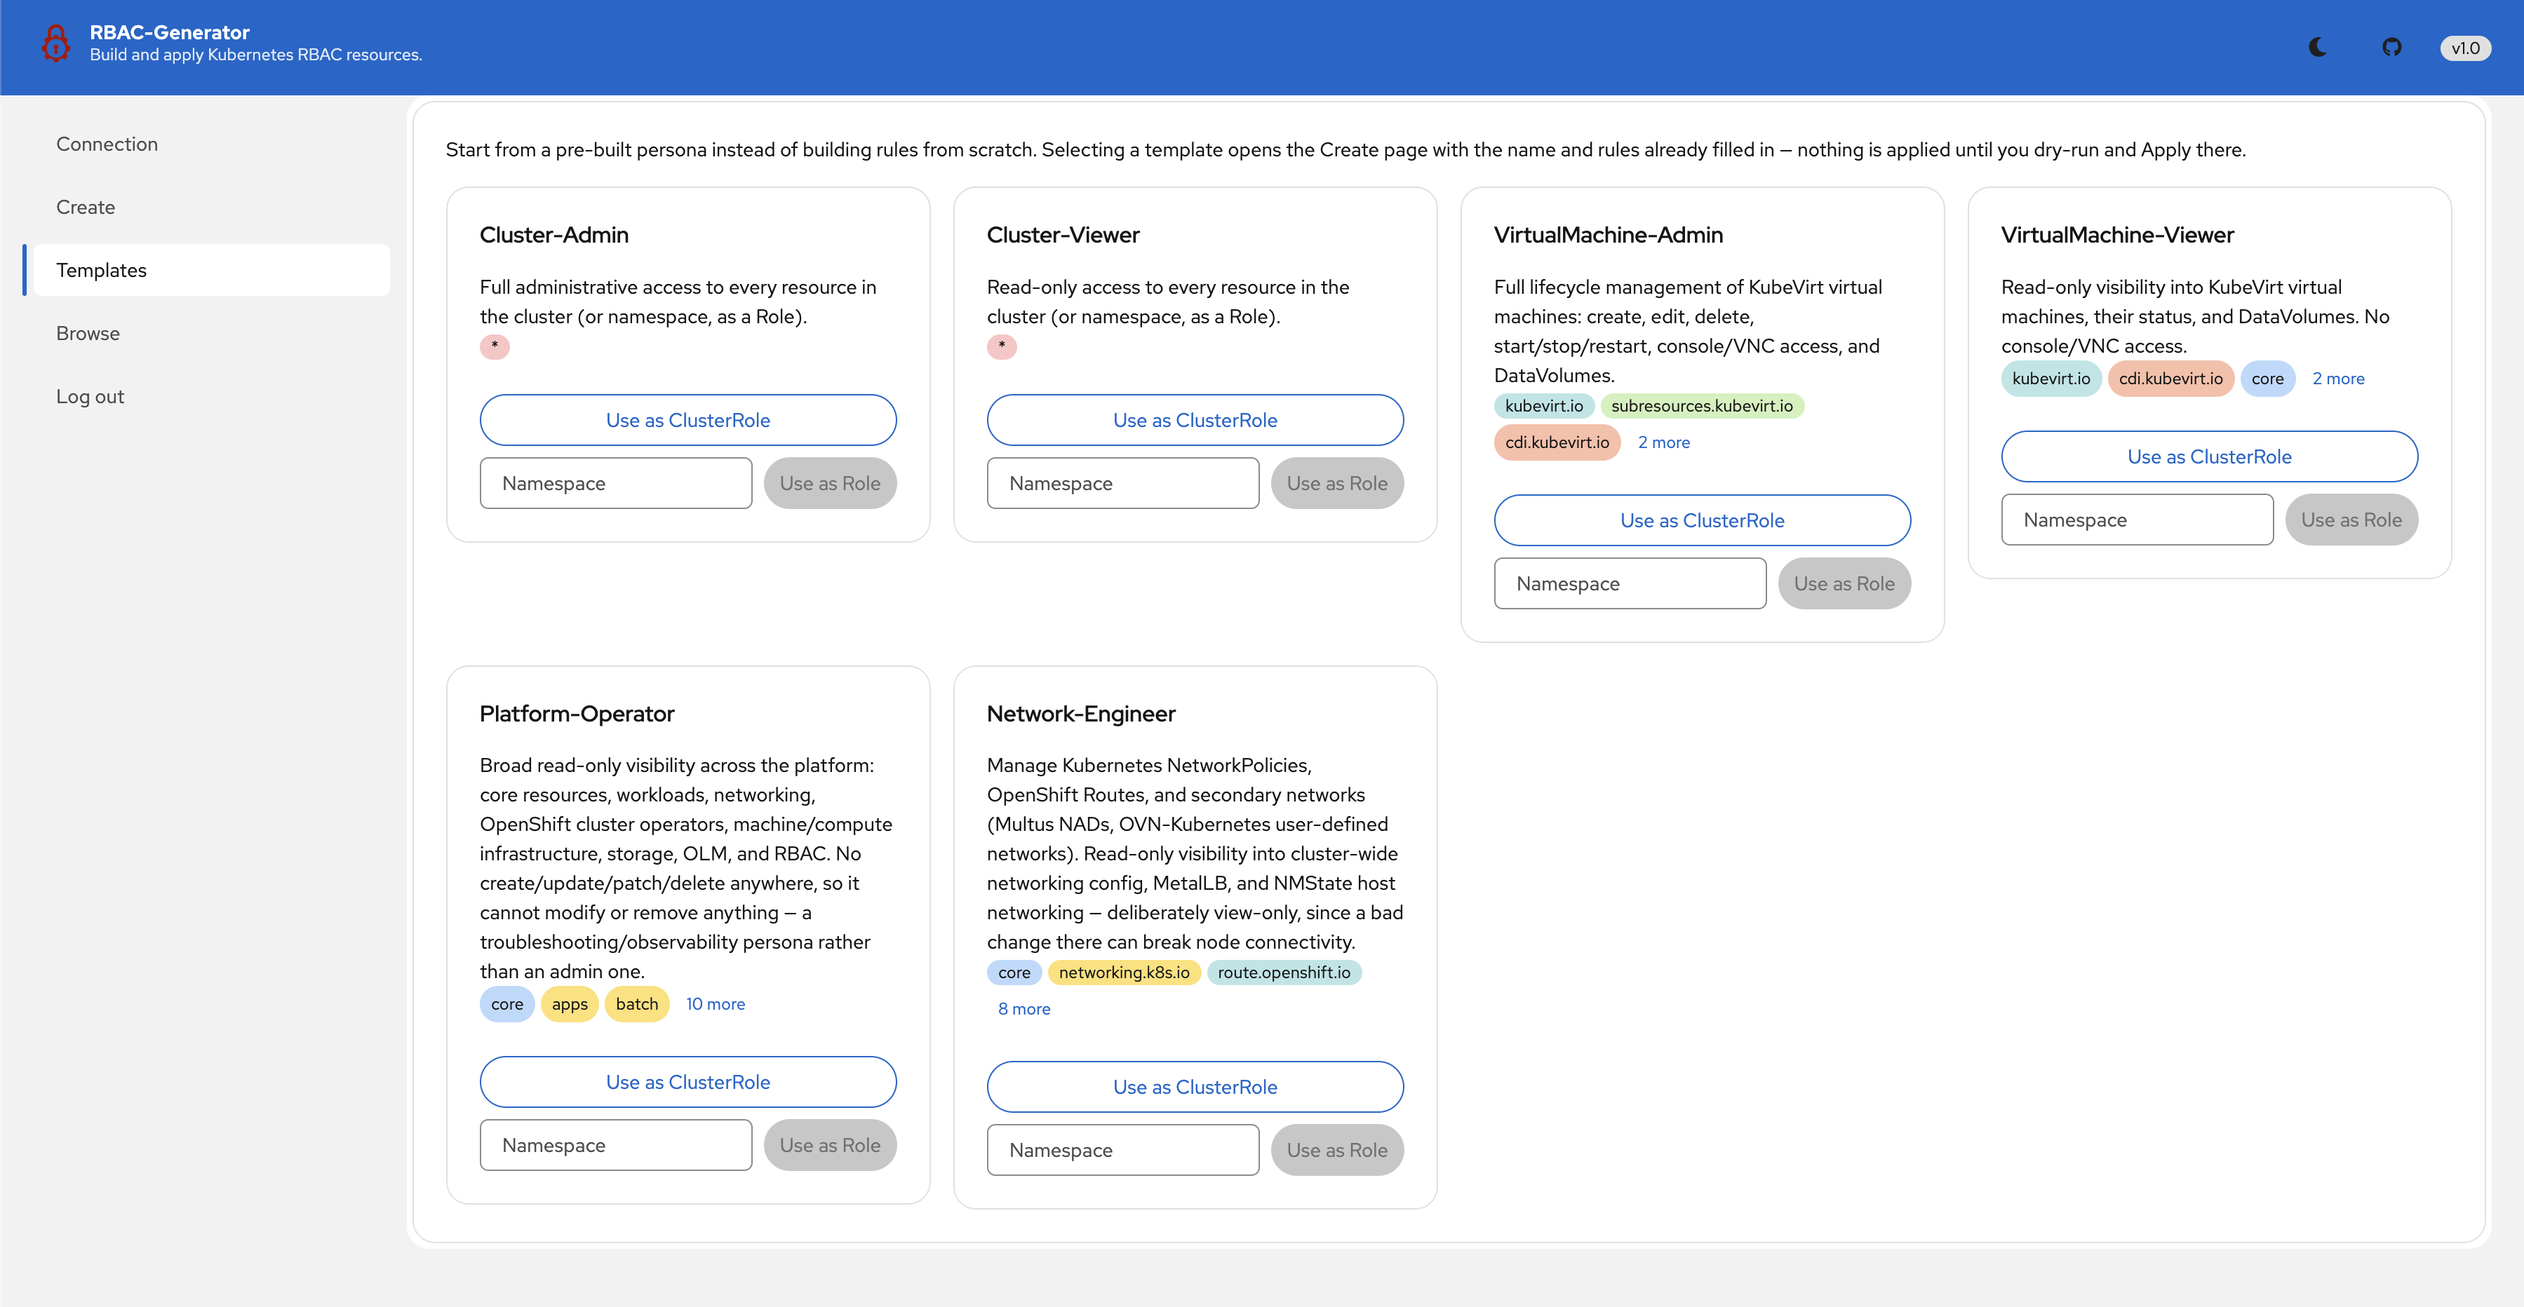
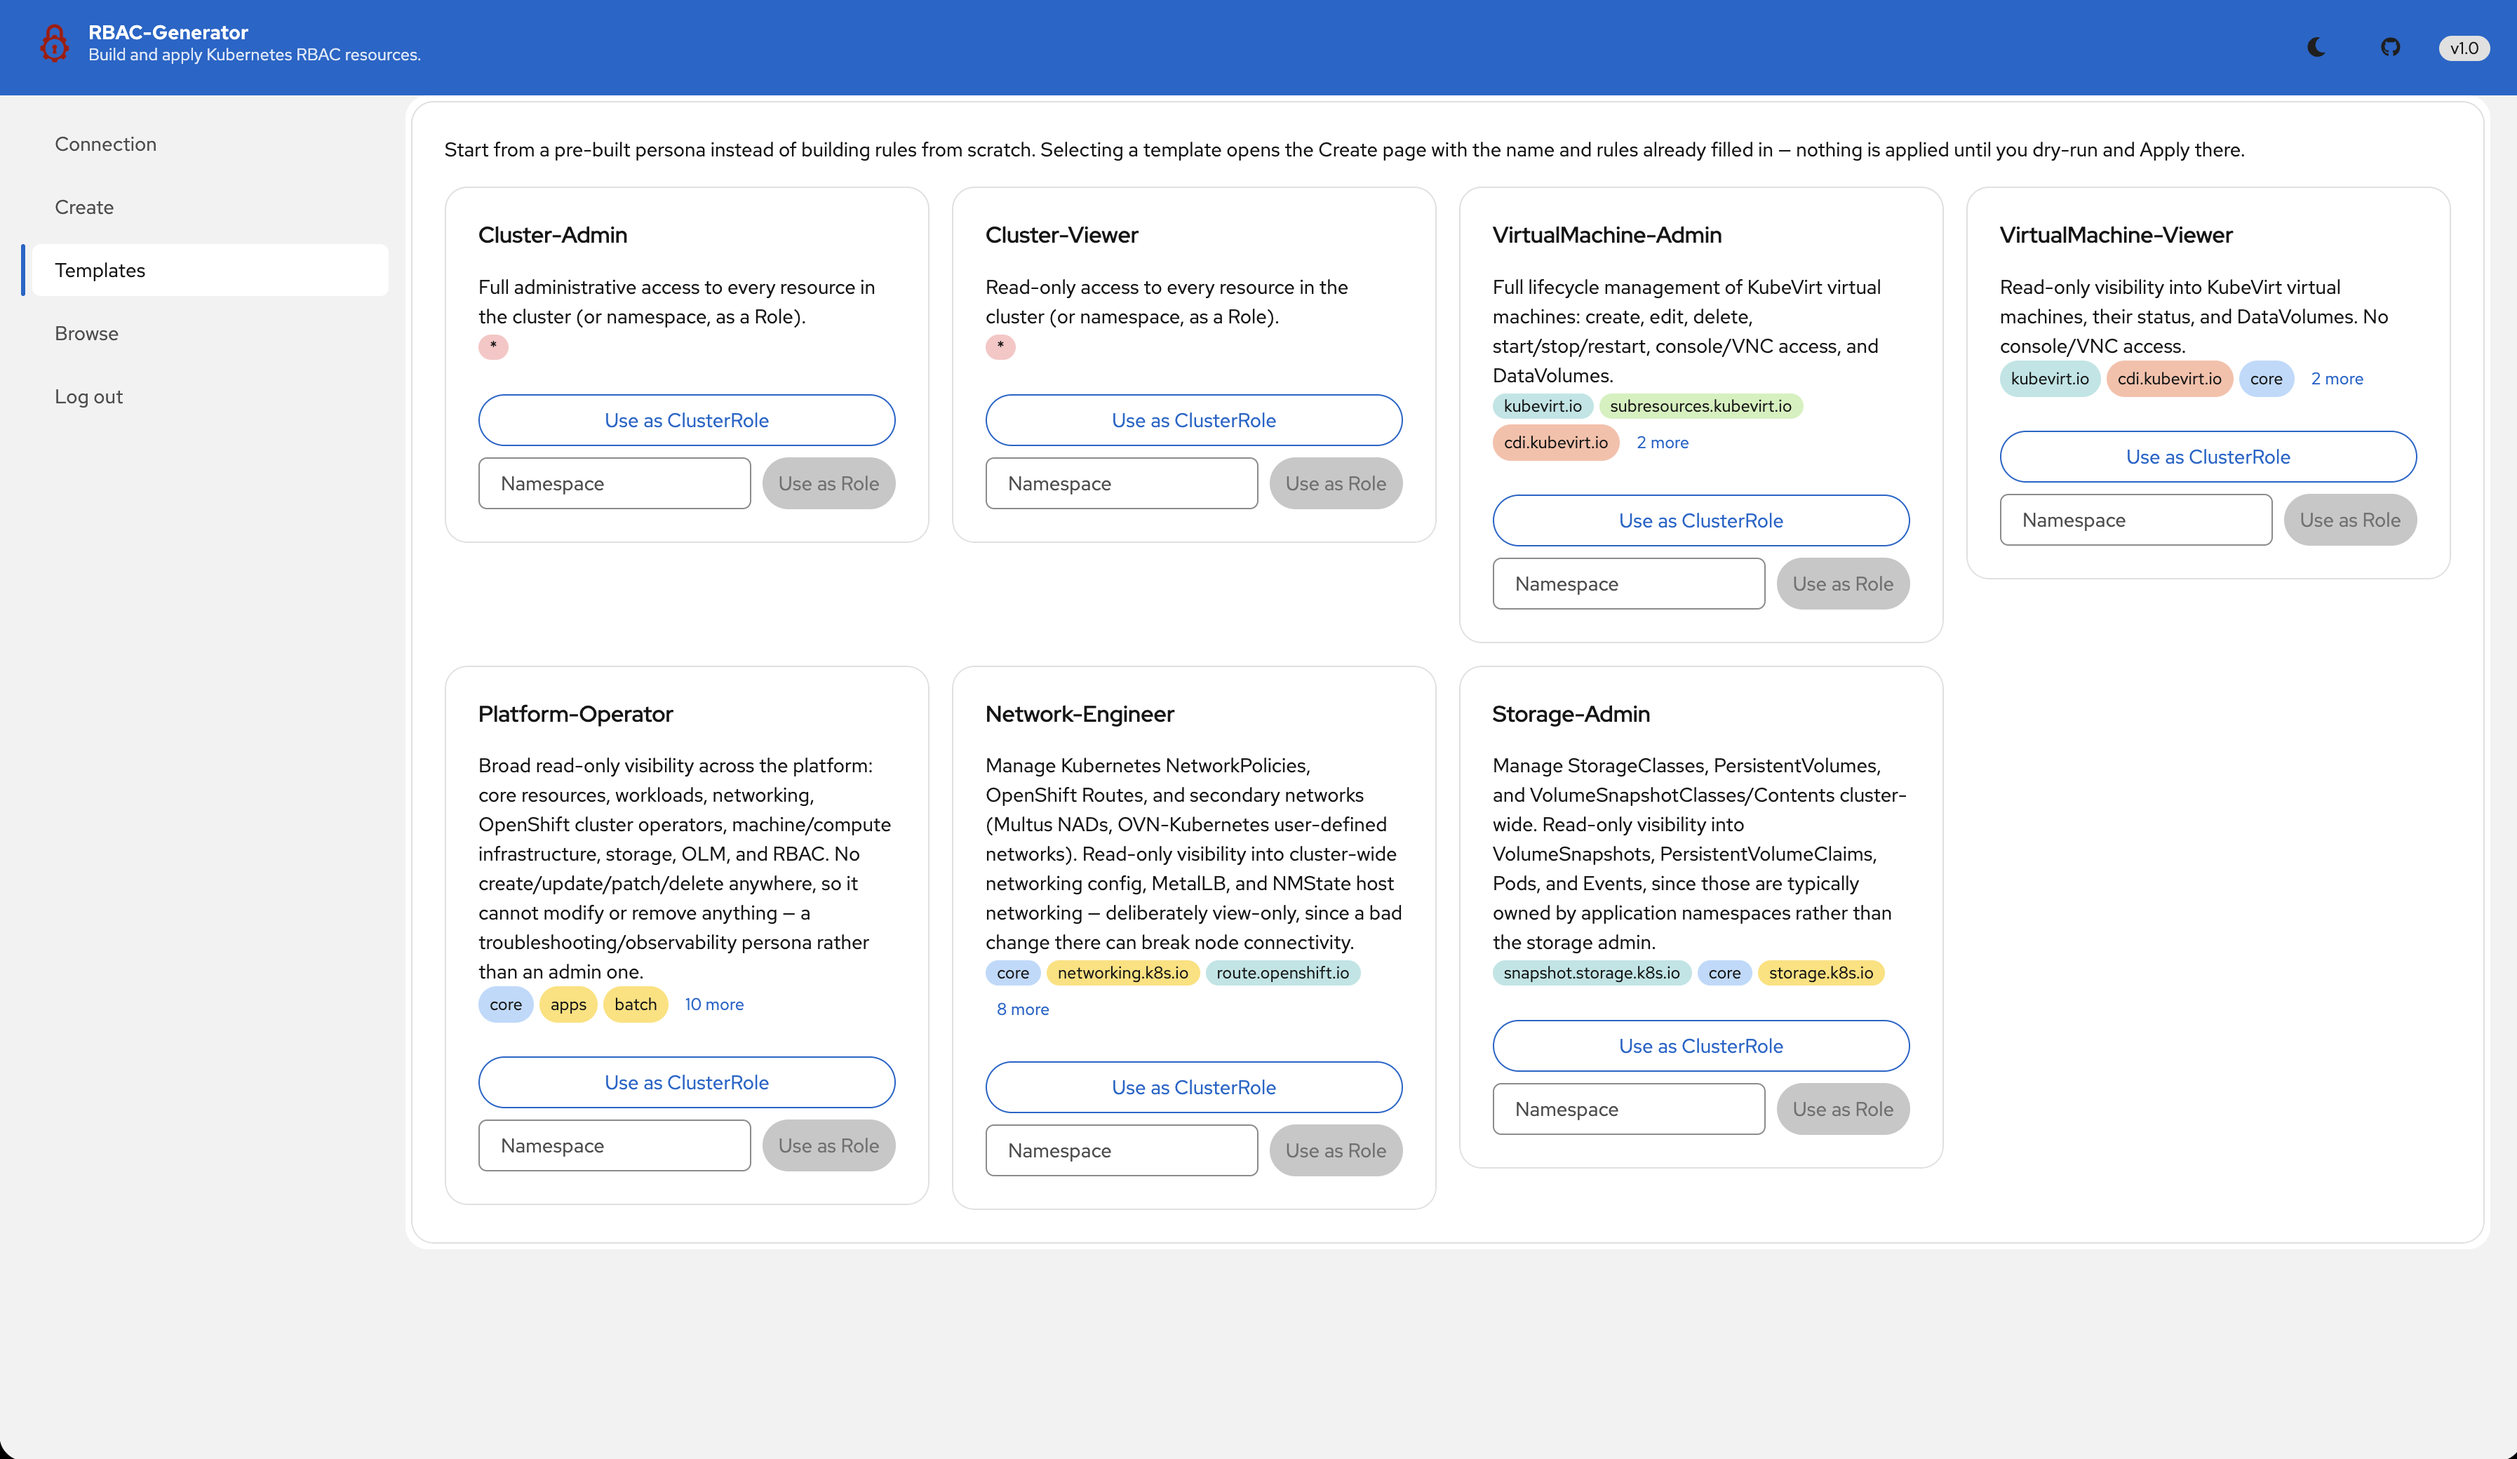
added storage-admin template

diff --git a/frontend/src/data/templates.test.ts b/frontend/src/data/templates.test.ts
@@ -39,6 +39,7 @@ describe('RBAC_TEMPLATES', () => {
         'VirtualMachine-Viewer',
         'Platform-Operator',
         'Network-Engineer',
+        'Storage-Admin',
       ]),
     );
   });
@@ -140,5 +141,45 @@ describe('RBAC_TEMPLATES', () => {
         expect(rule.verbs).toEqual(['get', 'list', 'watch']);
       }
     }
+  });
+
+  it('lets Storage-Admin manage StorageClasses, PersistentVolumes, and VolumeSnapshotClasses/Contents', () => {
+    const template = RBAC_TEMPLATES.find((t) => t.name === 'Storage-Admin')!;
+    const manageVerbs = ['get', 'list', 'watch', 'create', 'update', 'patch', 'delete', 'deletecollection'];
+
+    const snapshotClassRule = template.rules.find(
+      (r) => r.apiGroups.includes('snapshot.storage.k8s.io') && r.resources.includes('volumesnapshotclasses'),
+    );
+    expect(snapshotClassRule).toBeDefined();
+    expect(snapshotClassRule!.resources).toEqual(expect.arrayContaining(['volumesnapshotclasses', 'volumesnapshotcontents']));
+    expect(snapshotClassRule!.verbs).toEqual(expect.arrayContaining(manageVerbs));
+
+    const pvRule = template.rules.find((r) => r.apiGroups.includes('') && r.resources.includes('persistentvolumes'));
+    expect(pvRule).toBeDefined();
+    expect(pvRule!.verbs).toEqual(expect.arrayContaining(manageVerbs));
+
+    const scRule = template.rules.find((r) => r.apiGroups.includes('storage.k8s.io') && r.resources.includes('storageclasses'));
+    expect(scRule).toBeDefined();
+    expect(scRule!.verbs).toEqual(expect.arrayContaining(manageVerbs));
+  });
+
+  it('keeps Storage-Admin read-only on VolumeSnapshots, PersistentVolumeClaims, Pods, and Events', () => {
+    const template = RBAC_TEMPLATES.find((t) => t.name === 'Storage-Admin')!;
+    const readOnly = ['get', 'list', 'watch'];
+
+    const snapshotRule = template.rules.find(
+      (r) => r.apiGroups.includes('snapshot.storage.k8s.io') && r.resources.includes('volumesnapshots'),
+    );
+    expect(snapshotRule).toBeDefined();
+    expect(snapshotRule!.verbs).toEqual(readOnly);
+
+    const coreViewRule = template.rules.find((r) => r.apiGroups.includes('') && r.resources.includes('persistentvolumeclaims'));
+    expect(coreViewRule).toBeDefined();
+    expect(coreViewRule!.resources).toEqual(expect.arrayContaining(['events', 'persistentvolumeclaims']));
+    expect(coreViewRule!.verbs).toEqual(readOnly);
+
+    const podsRule = template.rules.find((r) => r.apiGroups.includes('') && r.resources.includes('pods'));
+    expect(podsRule).toBeDefined();
+    expect(podsRule!.verbs).toEqual(readOnly);
   });
 });

diff --git a/frontend/src/data/templates.ts b/frontend/src/data/templates.ts
@@ -345,4 +345,49 @@ export const RBAC_TEMPLATES: RbacTemplate[] = [
       },
     ],
   },
+  {
+    id: 'storage-admin',
+    name: 'Storage-Admin',
+    description:
+      'Manage StorageClasses, PersistentVolumes, and VolumeSnapshotClasses/Contents cluster-wide. Read-only visibility into VolumeSnapshots, PersistentVolumeClaims, Pods, and Events, since those are typically owned by application namespaces rather than the storage admin.',
+    defaultName: 'storage-admin',
+    rules: [
+      {
+        // VolumeSnapshotClasses and VolumeSnapshotContents are cluster-scoped
+        // storage admin objects - full lifecycle management.
+        apiGroups: ['snapshot.storage.k8s.io'],
+        resources: ['volumesnapshotclasses', 'volumesnapshotcontents'],
+        verbs: ['get', 'list', 'watch', 'create', 'update', 'patch', 'delete', 'deletecollection'],
+      },
+      {
+        // VolumeSnapshots are namespaced and usually managed by the
+        // application owner - view only here.
+        apiGroups: ['snapshot.storage.k8s.io'],
+        resources: ['volumesnapshots'],
+        verbs: ['get', 'list', 'watch'],
+      },
+      {
+        apiGroups: [''],
+        resources: ['persistentvolumes'],
+        verbs: ['get', 'list', 'watch', 'create', 'update', 'patch', 'delete', 'deletecollection'],
+      },
+      {
+        apiGroups: ['storage.k8s.io'],
+        resources: ['storageclasses'],
+        verbs: ['get', 'list', 'watch', 'create', 'update', 'patch', 'delete', 'deletecollection'],
+      },
+      {
+        // PersistentVolumeClaims and Events - view only, to correlate PVCs
+        // with the PVs backing them without touching application namespaces.
+        apiGroups: [''],
+        resources: ['events', 'persistentvolumeclaims'],
+        verbs: ['get', 'list', 'watch'],
+      },
+      {
+        apiGroups: [''],
+        resources: ['pods'],
+        verbs: ['get', 'list', 'watch'],
+      },
+    ],
+  },
 ];
